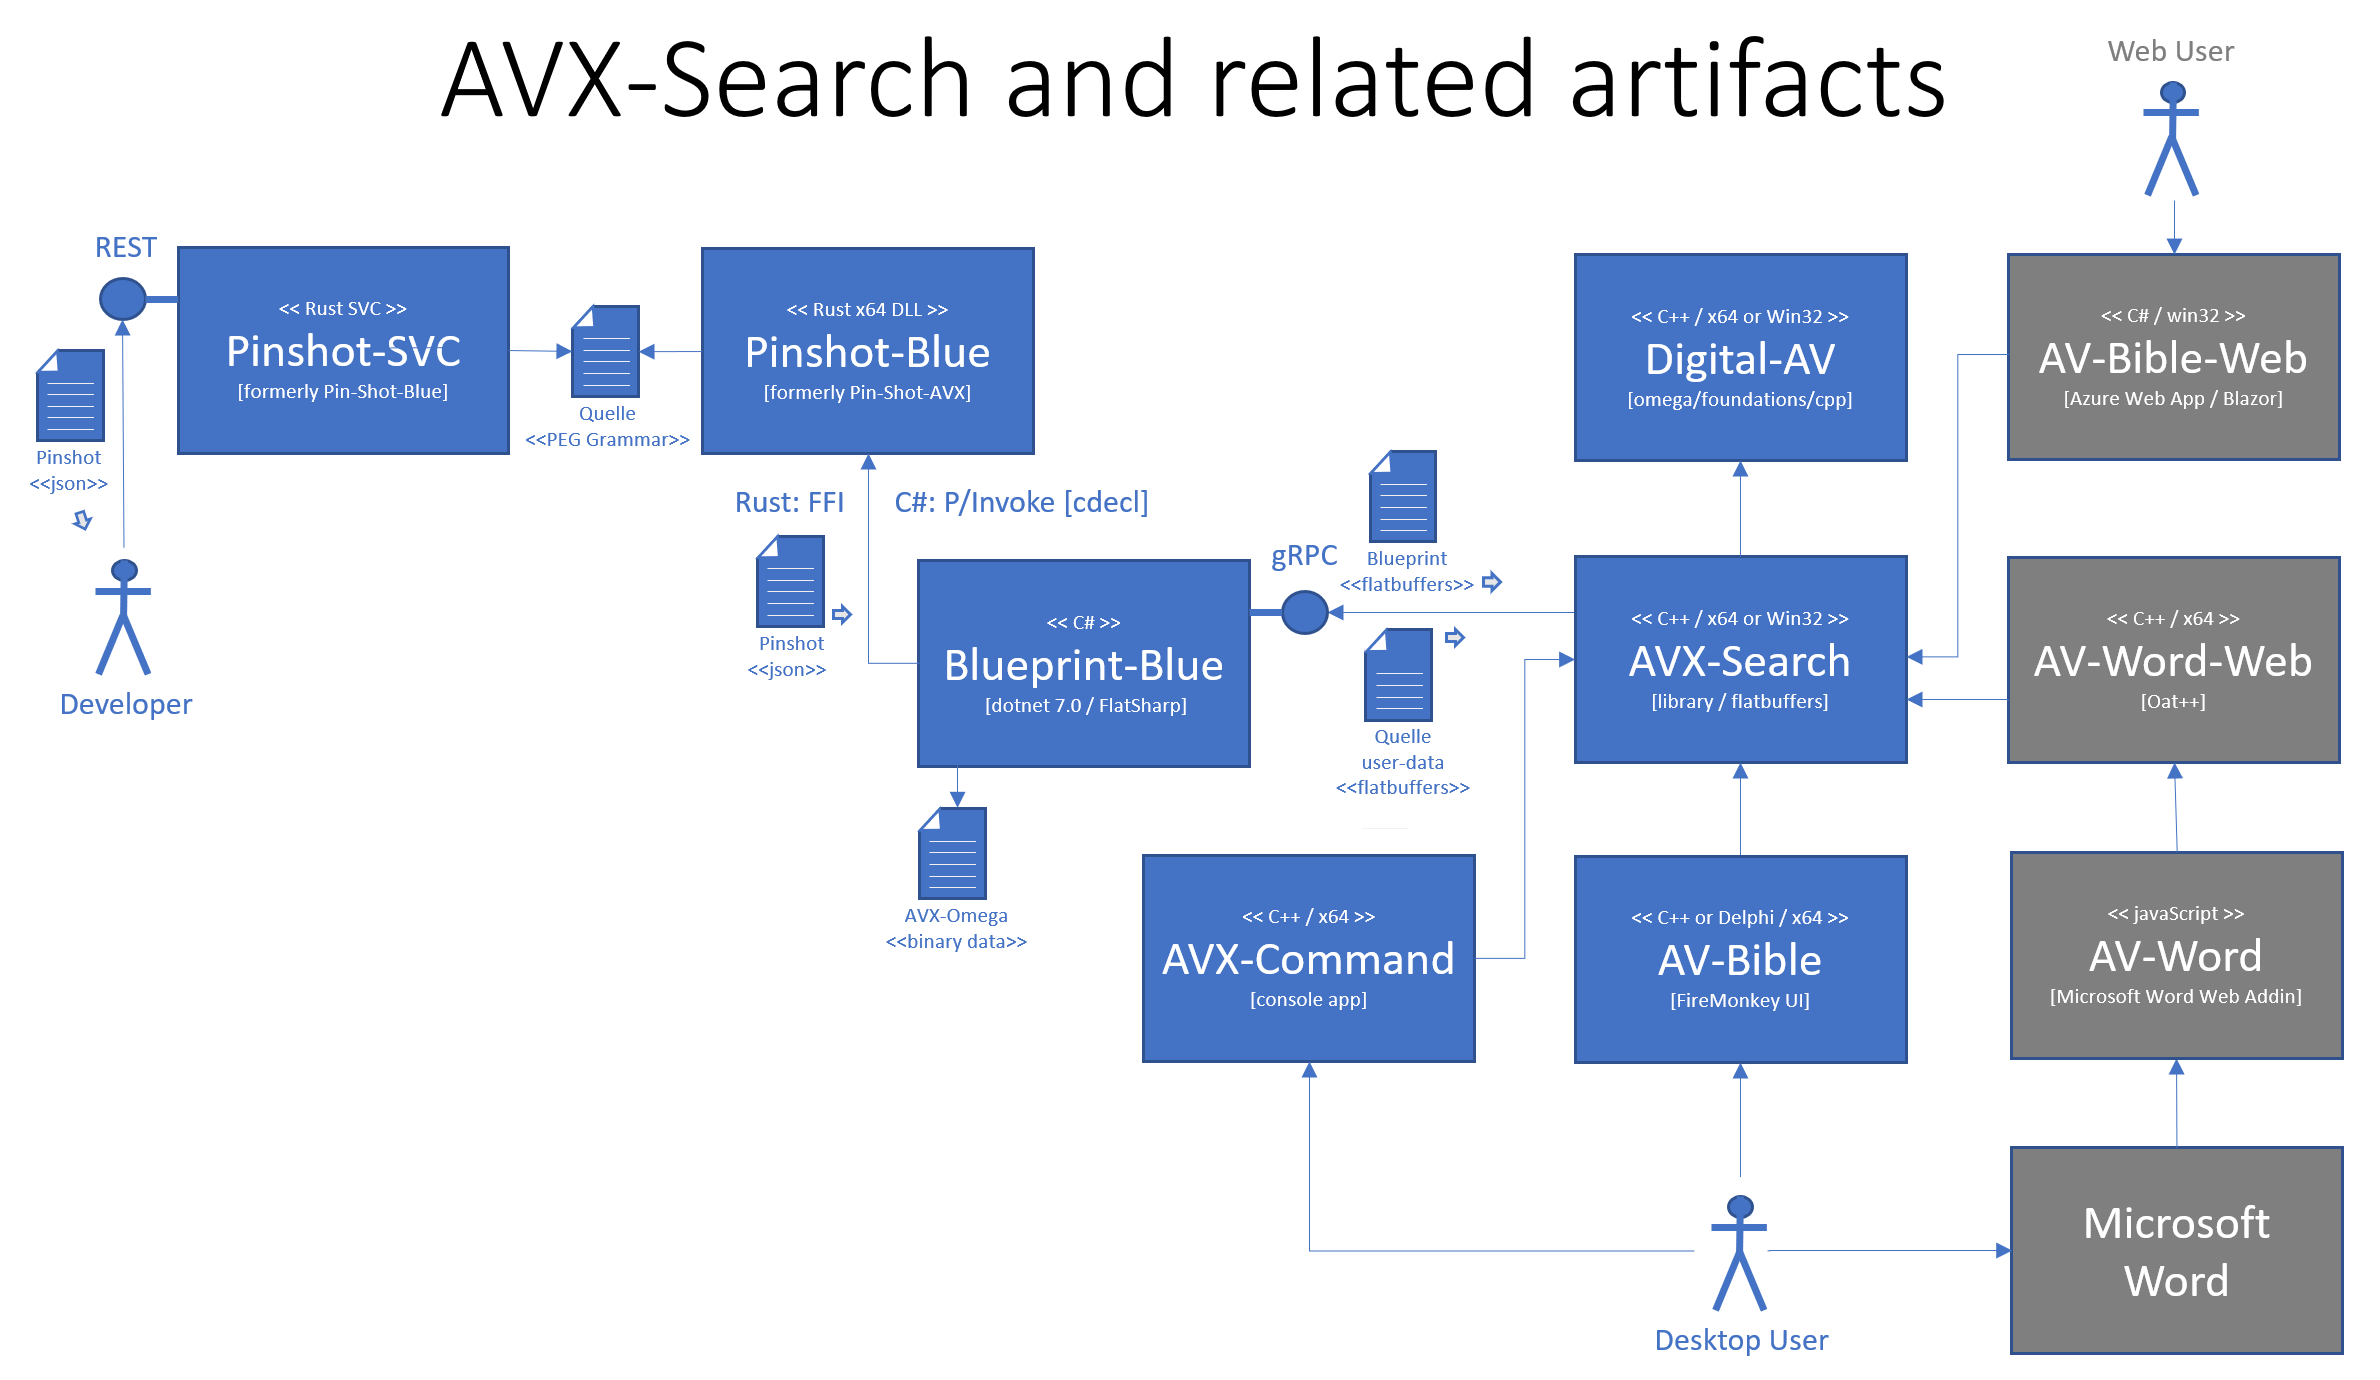
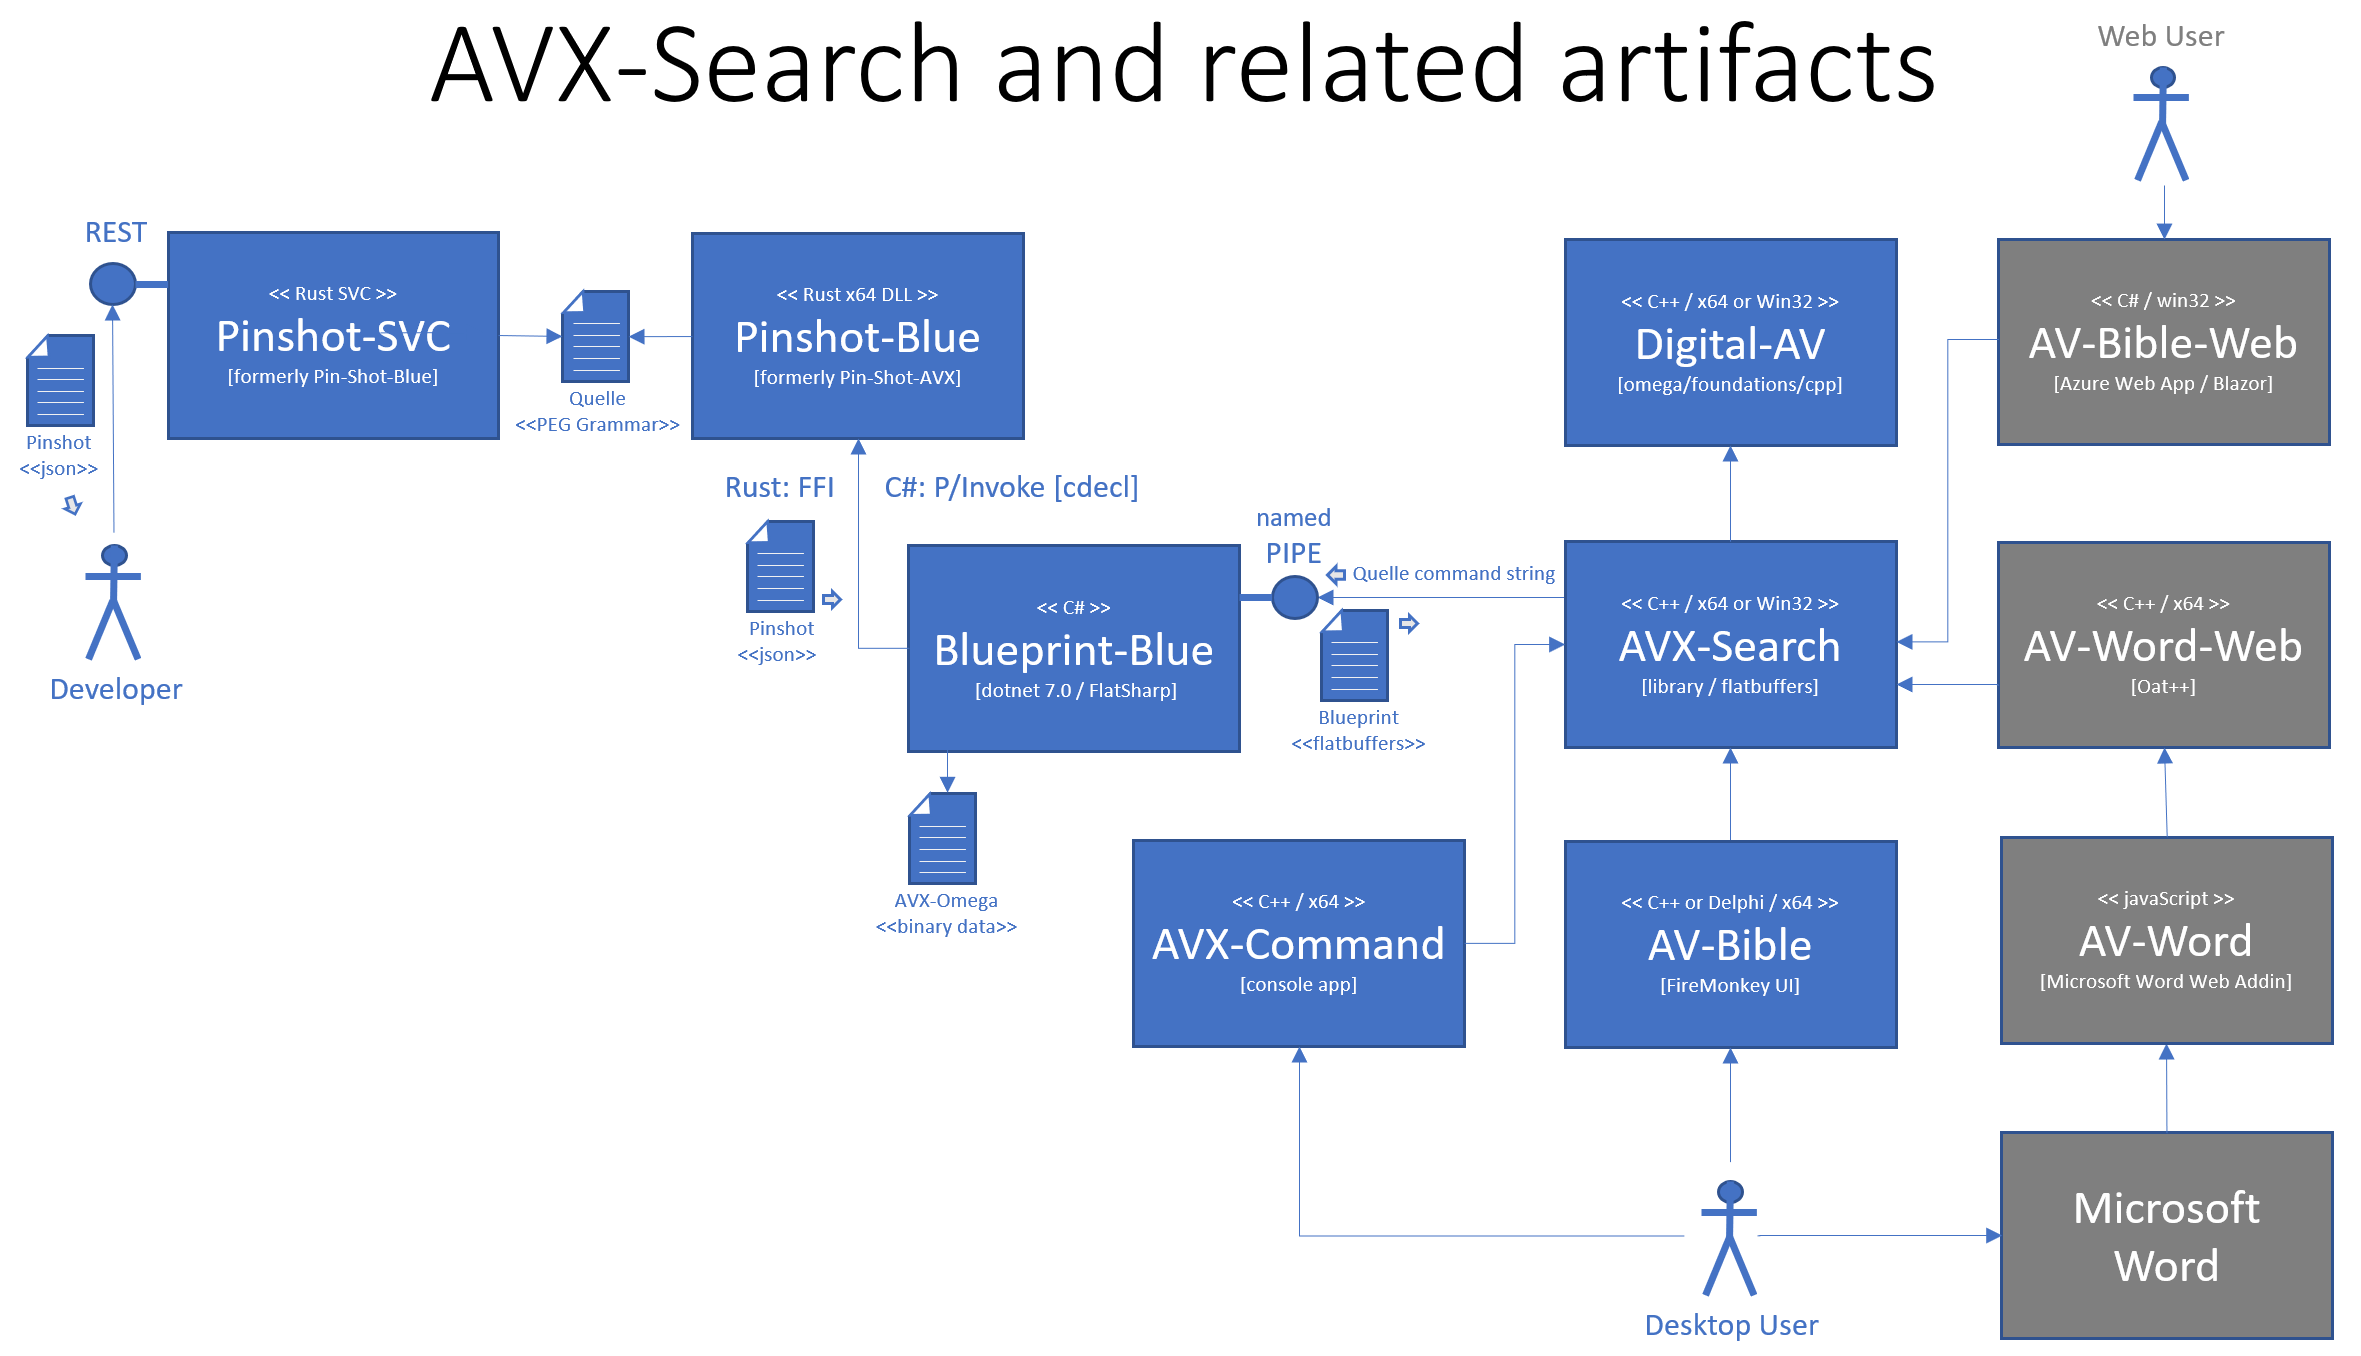
Work in progress: moving from grpc to Windows named-pipes to simplify dependencies.

diff --git a/AVXSearch/AVXSearch.cpp b/AVXSearch/AVXSearch.cpp
@@ -1,6 +1,6 @@
 #include "AVXSearch.h"
 #include "AVXSegment.h"
-#include "AVXResults.h"
+#include "AVXBlueprint.h"
 #include "AVXFind.h"
 #include "AVXFound.h"
 #include "AVXMatch.h"
@@ -257,31 +257,12 @@ static std::string SayHello(const char* const command)
     auto cmd_offset = builder.CreateString(command);
     auto request_offset = CreateQuelleRequest(builder, cmd_offset);
     builder.Finish(request_offset);
-
-    XBlueprintBlue::XBlueprint blueprint;
-    flatbuffers::
-    auto request_msg = builder.R.ReleaseMessage<HelloRequest>();
-
-    flatbuffers::grpc::Message<HelloReply> response_msg;
-
-    grpc::ClientContext context;
-
-    auto status = stub_->SayHello(&context, request_msg, &response_msg);
-    if (status.ok()) {
-        const HelloReply* response = response_msg.GetRoot();
-        return response->message()->str();
-    }
-    else {
-        std::cerr << status.error_code() << ": " << status.error_message()
-            << std::endl;
-        return "RPC failed";
-    }
 }
 
 // For use with LoadLibrary/GetProcAdress ... no header file required
 extern "C" __declspec(dllexport) const uint8* const avx_create_search(const char* const request)
 {
-    AVXResults search(request);
+    AVXBlueprint search(request);
     search.execute();
     auto results = search.build();
 	if (results != nullptr)

diff --git a/AVXSearch/AVXBlueprint.cpp b/AVXSearch/AVXBlueprint.cpp
@@ -1,4 +1,4 @@
-#include "AVXResults.h"
+#include "AVXBlueprint.h"
 #include "AVXSearch.h"
 #include "AVXFind.h"
 #include <blueprint_blue_generated.h>
@@ -10,12 +10,12 @@ using namespace XSearchResults;
 
 #include <book_index.h>
 
-AVXResults::AVXResults(const uint8* const data)
+AVXBlueprint::AVXBlueprint(const uint8* const data)
 {
     const XBlueprint* req = GetXBlueprint(data);
     this->request = (void*)req;
 }
-bool AVXResults::execute()
+bool AVXBlueprint::execute()
 {
     const XBlueprint* req = reinterpret_cast<const XBlueprint*>(this->request);
     AVXSettings settings(req->settings());
@@ -67,7 +67,7 @@ bool AVXResults::execute()
     return false;
 }
 
-const uint8* const AVXResults::build()
+const uint8* const AVXBlueprint::build()
 {
     std::vector<flatbuffers::Offset<XFind>> collection;
     flatbuffers::FlatBufferBuilder builder;

diff --git a/AVXSearch/AVXBlueprint.h b/AVXSearch/AVXBlueprint.h
@@ -4,18 +4,18 @@
 
 class AVXFind;
 
-class AVXResults
+class AVXBlueprint
 {
 private:
     void* request;
 public:
-    AVXResults(const uint8* const data);
+    AVXBlueprint(const uint8* const data);
     bool execute();
 
     std::vector<AVXFind*> searches;
     const uint8* const build();
 
-    ~AVXResults()
+    ~AVXBlueprint()
     {
         ;
     }

diff --git a/AVXSearch/AVXSearch.h b/AVXSearch/AVXSearch.h
@@ -1,5 +1,5 @@
 #pragma once
-#include "AVXResults.h"
+#include "AVXBlueprint.h"
 #include <unordered_set>
 #include <book_index.h>
 #include <unordered_set>
